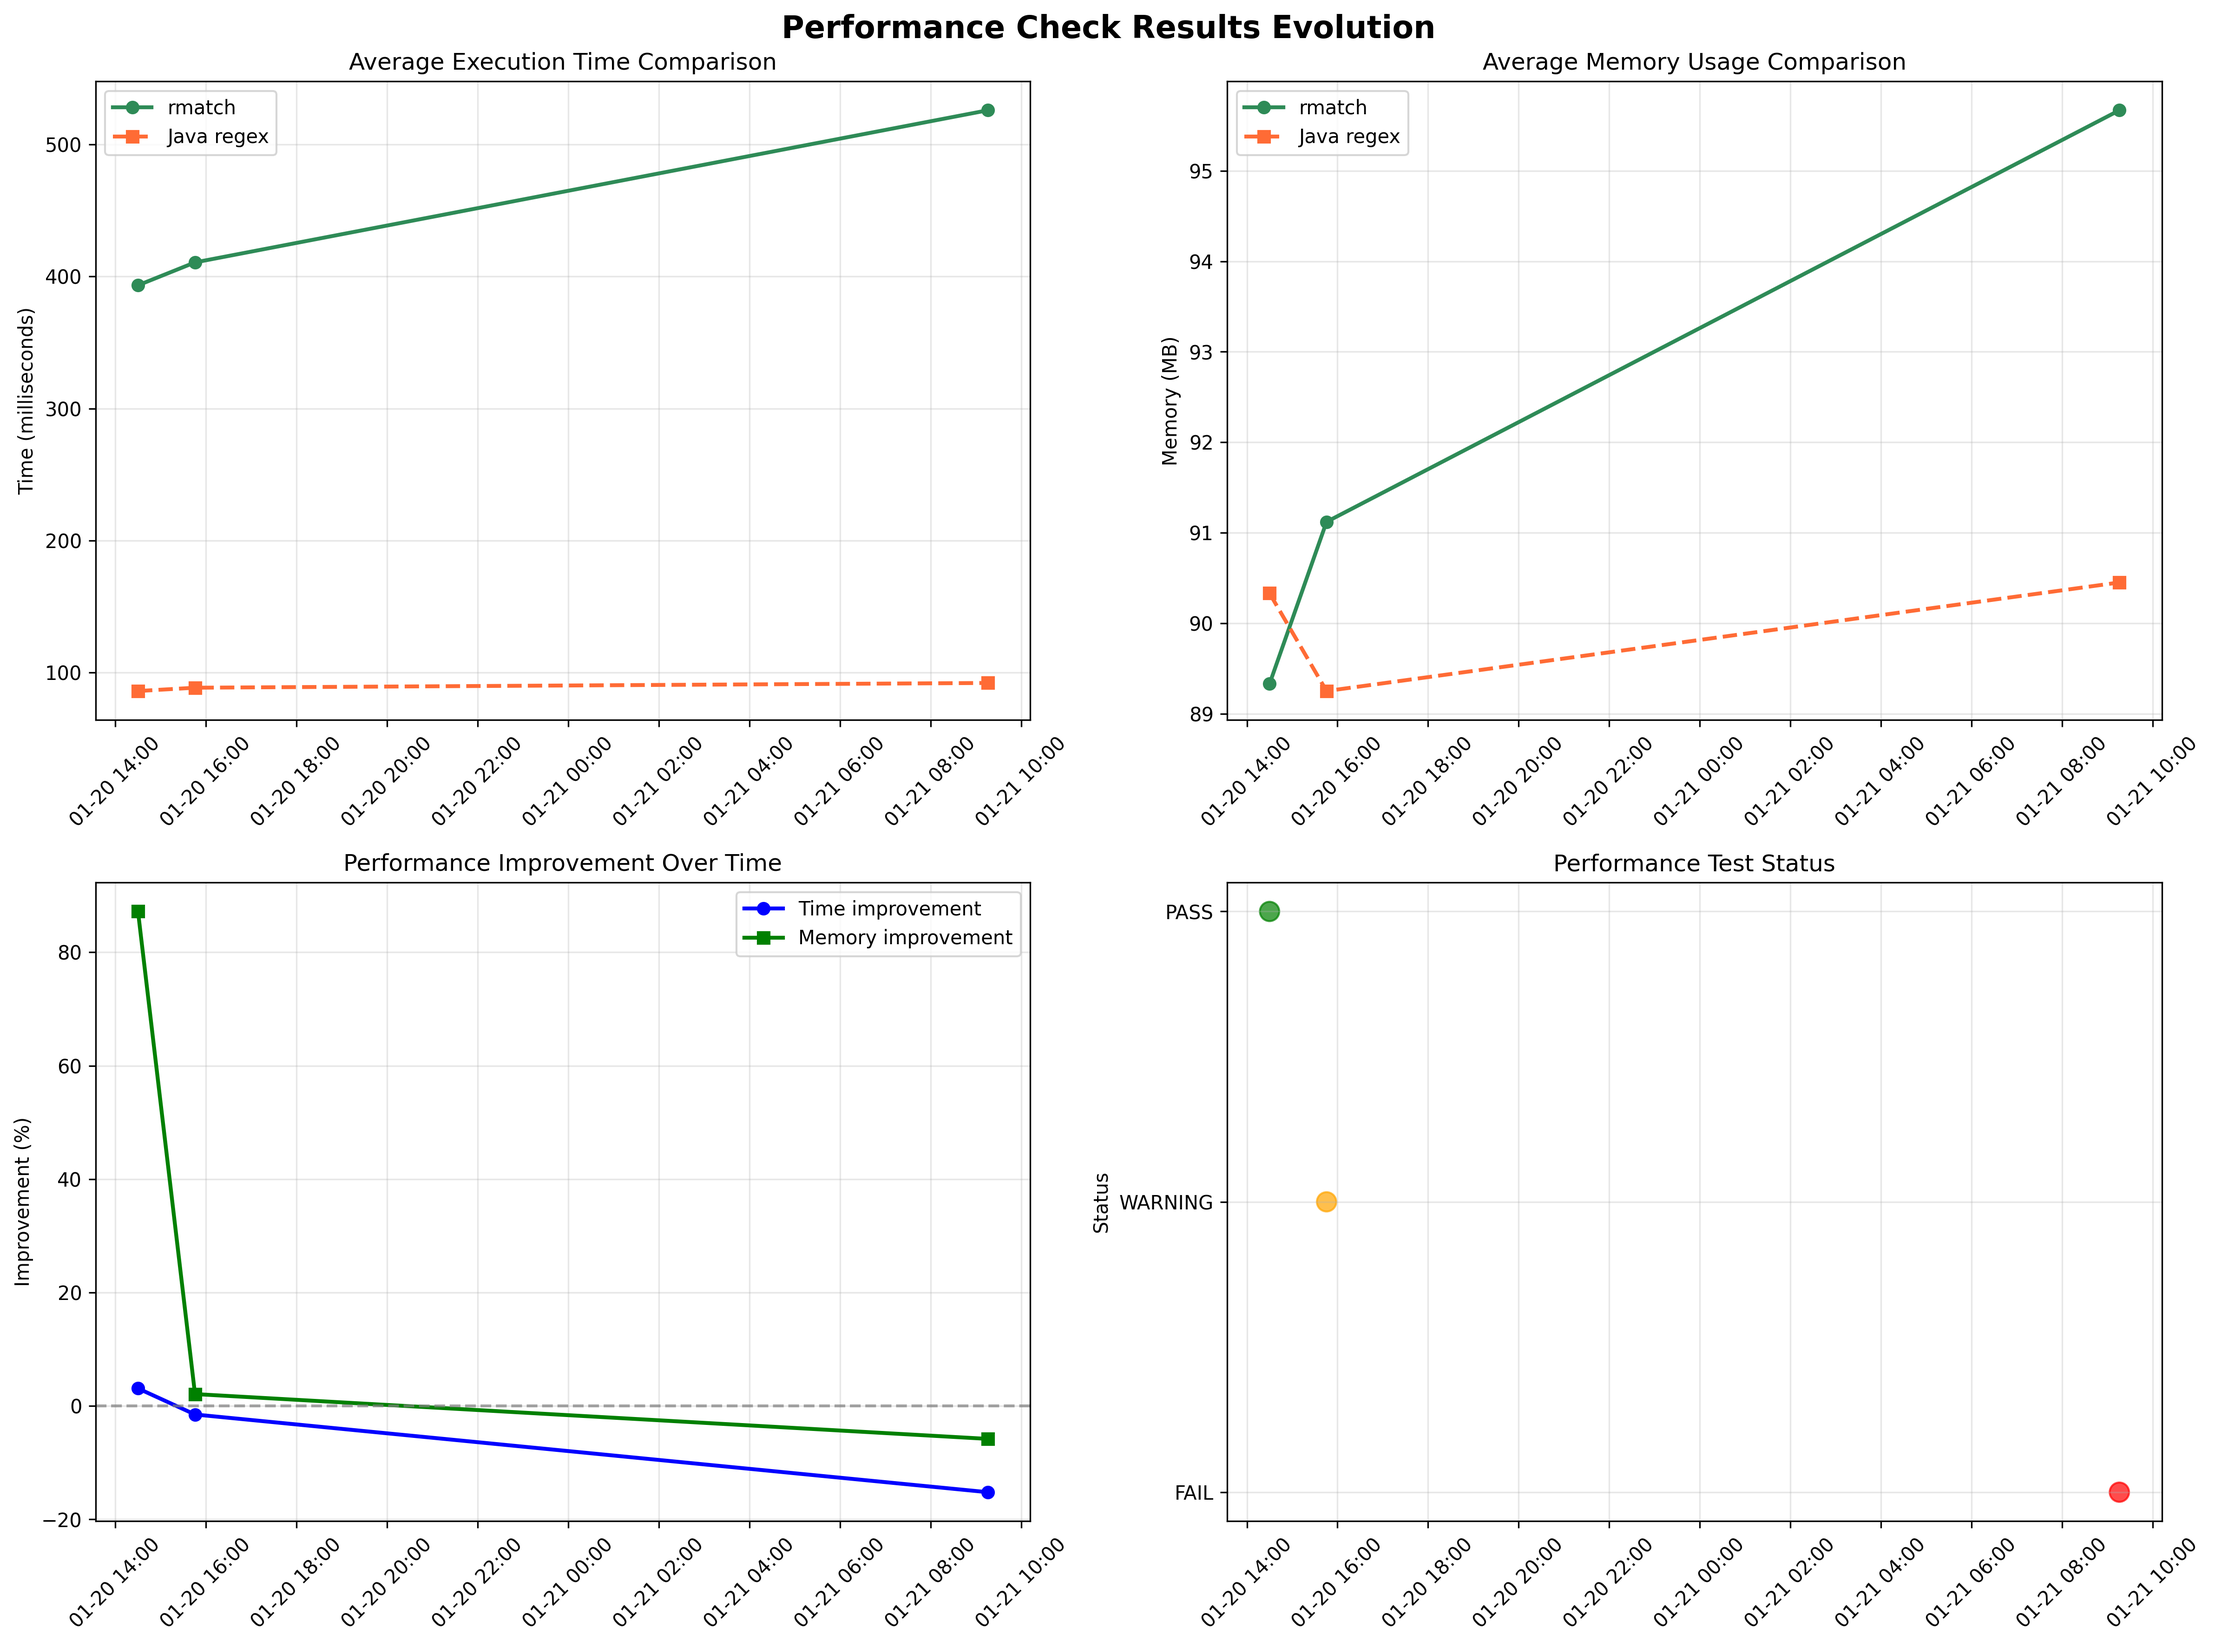
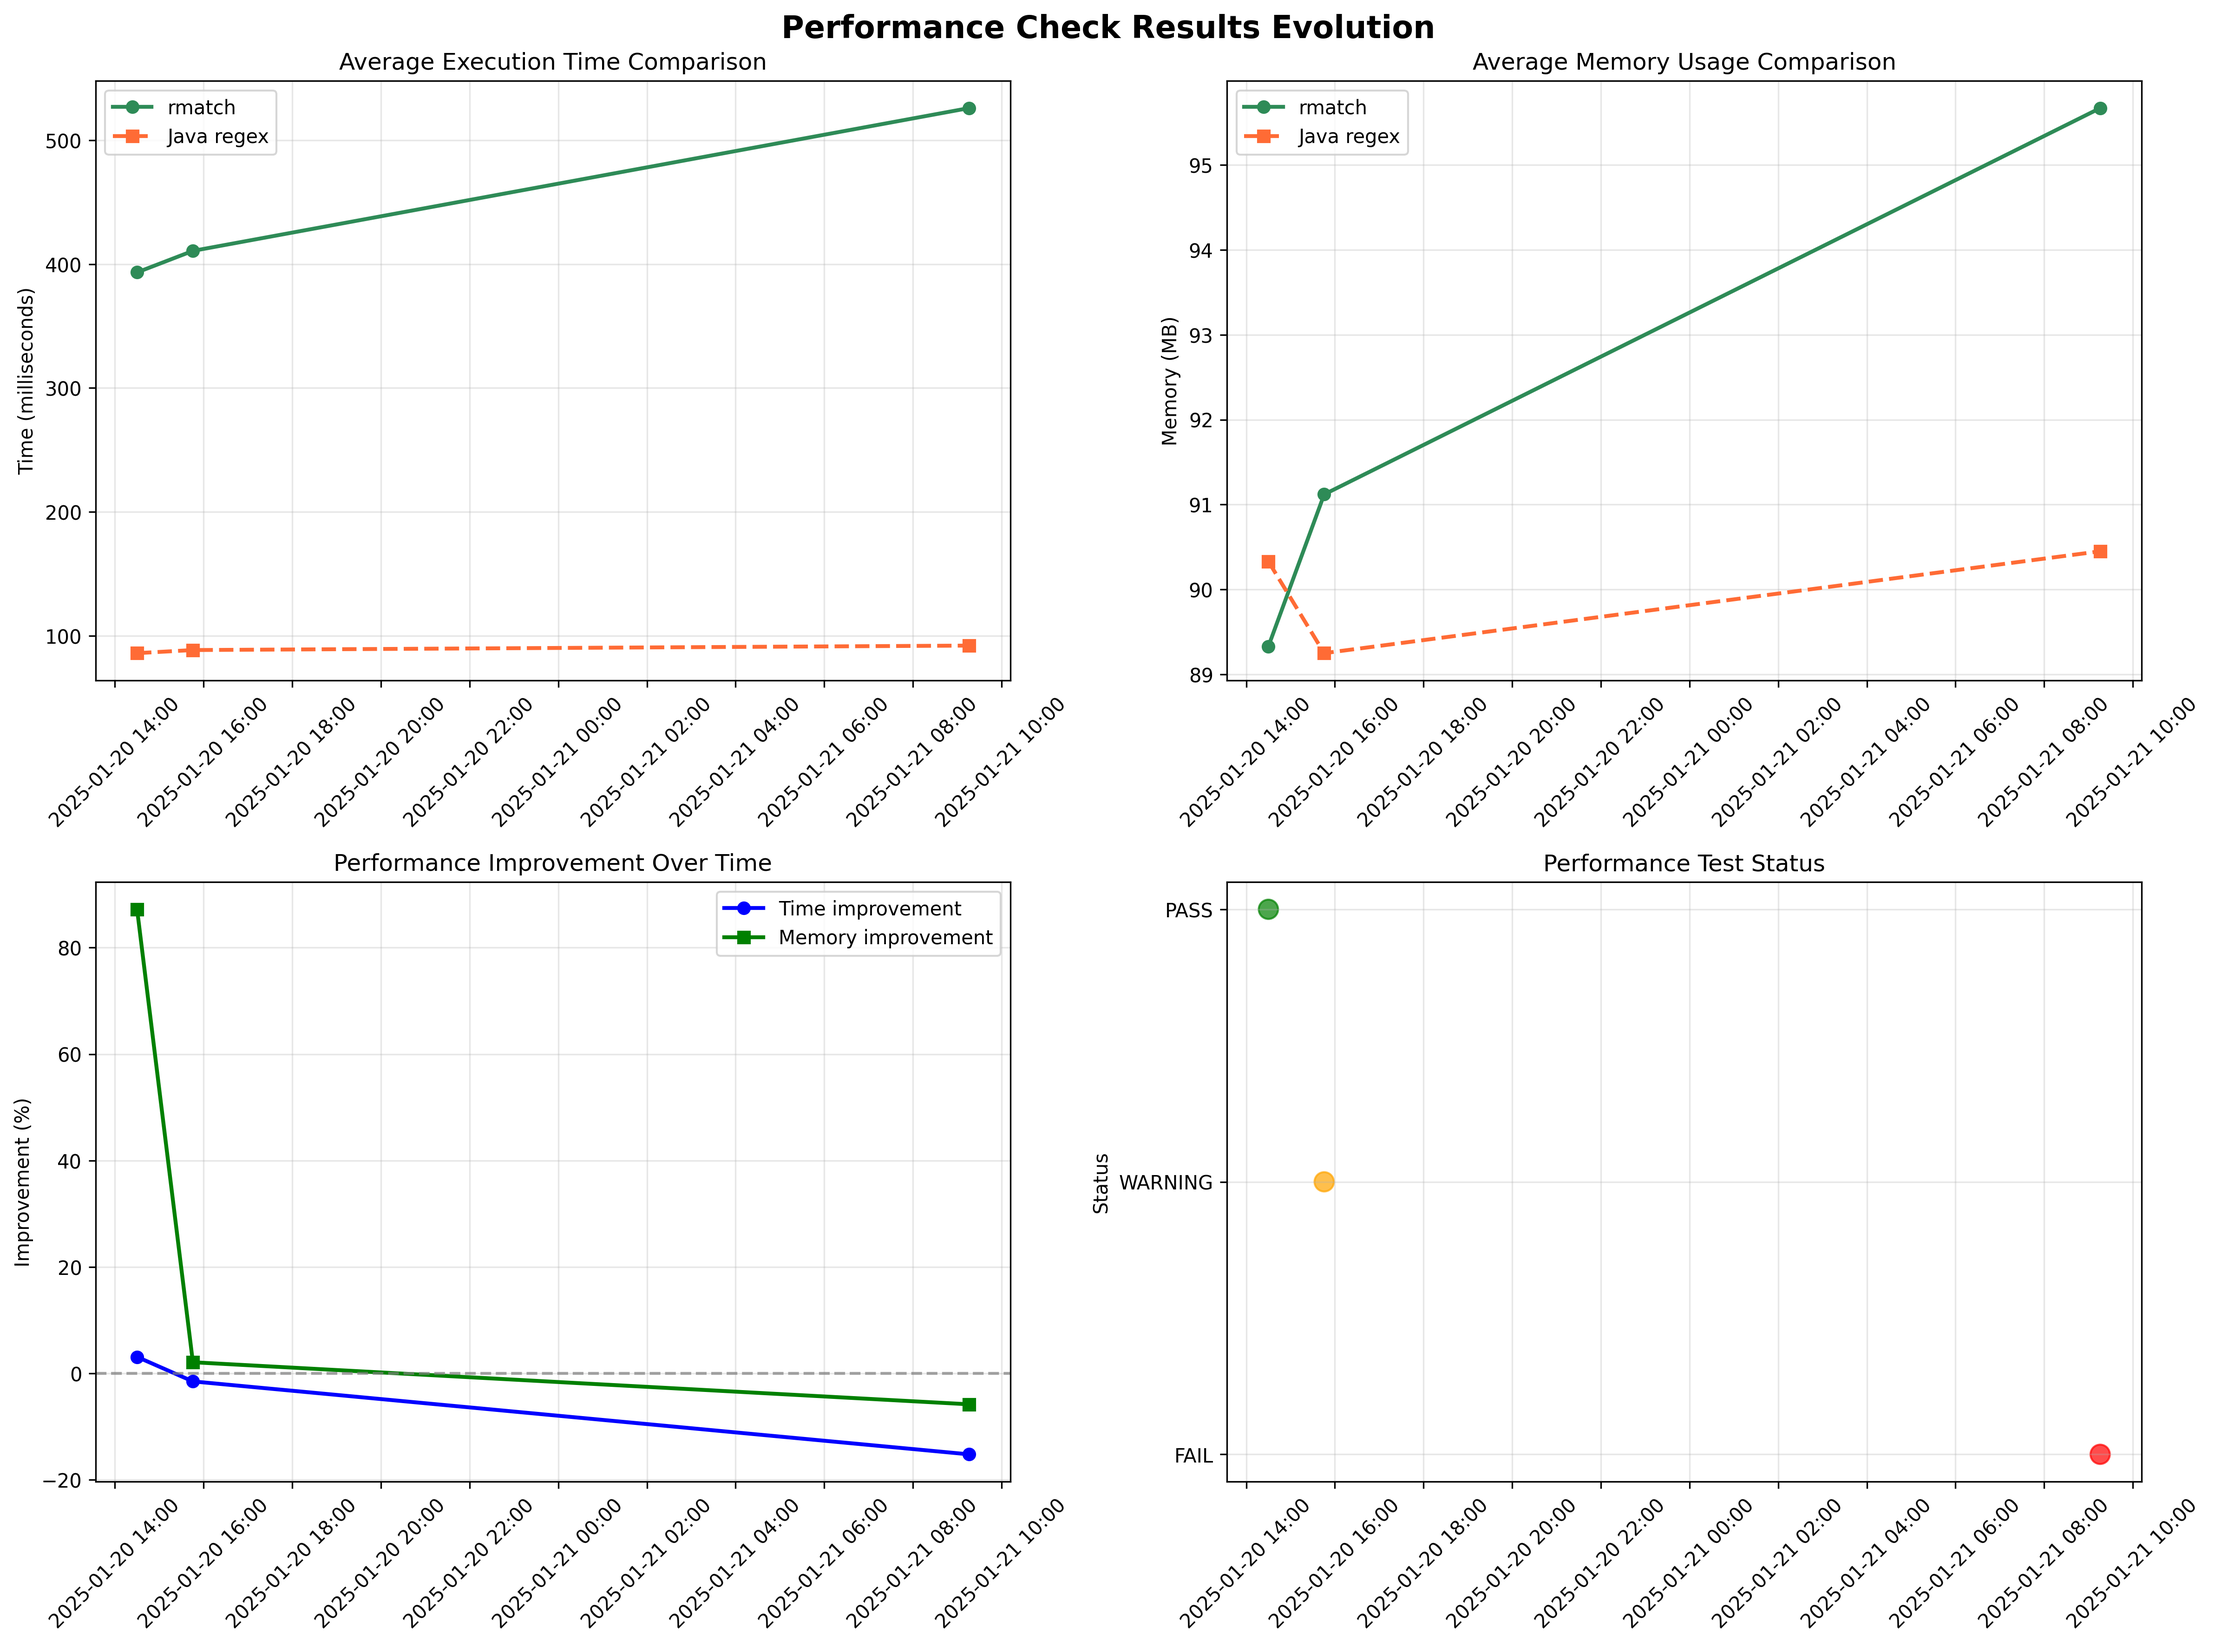
Fix date format in performance charts to include year

diff --git a/scripts/generate_performance_charts.py b/scripts/generate_performance_charts.py
@@ -481,8 +481,8 @@ def format_time_axis(ax):
 def format_recent_time_axis(ax):
     """Format time axis for recent performance data with date and time information."""
     # For recent performance data, show date and time for better granularity
-    # Use a more detailed format that includes both date and time
-    ax.xaxis.set_major_formatter(mdates.DateFormatter('%m-%d %H:%M'))
+    # Use a more detailed format that includes year, date and time for clarity
+    ax.xaxis.set_major_formatter(mdates.DateFormatter('%Y-%m-%d %H:%M'))
     ax.xaxis.set_major_locator(mdates.AutoDateLocator())
     ax.xaxis.set_minor_locator(mdates.AutoDateLocator(interval_multiples=False))
     plt.setp(ax.xaxis.get_majorticklabels(), rotation=45)

diff --git a/PERFORMANCE_CHARTS.md b/PERFORMANCE_CHARTS.md
@@ -103,9 +103,9 @@ This generates files in `benchmarks/results/performance-check-*.json` format.
 Performance charts use different time axis formats depending on the data type:
 
 - **Historical Charts (CSV data)**: Display year-month format (e.g., "2023-05") suitable for long-term trends
-- **Recent Performance Charts (JSON data)**: Display month-day hour:minute format (e.g., "01-24 15:30") providing precise timing for recent test results
+- **Recent Performance Charts (JSON data)**: Display year-month-day hour:minute format (e.g., "2025-01-24 15:30") providing precise timing with full date context for recent test results
 
-This dual formatting approach ensures historical data remains readable across long time periods while recent performance data shows the precise timing needed to correlate performance changes with specific test runs.
+This dual formatting approach ensures historical data remains readable across long time periods while recent performance data shows the precise timing with full year context needed to correlate performance changes with specific test runs.
 
 ### Status Colors in Recent Performance Charts
 - 🟢 **Green**: PASS - Performance meets criteria
